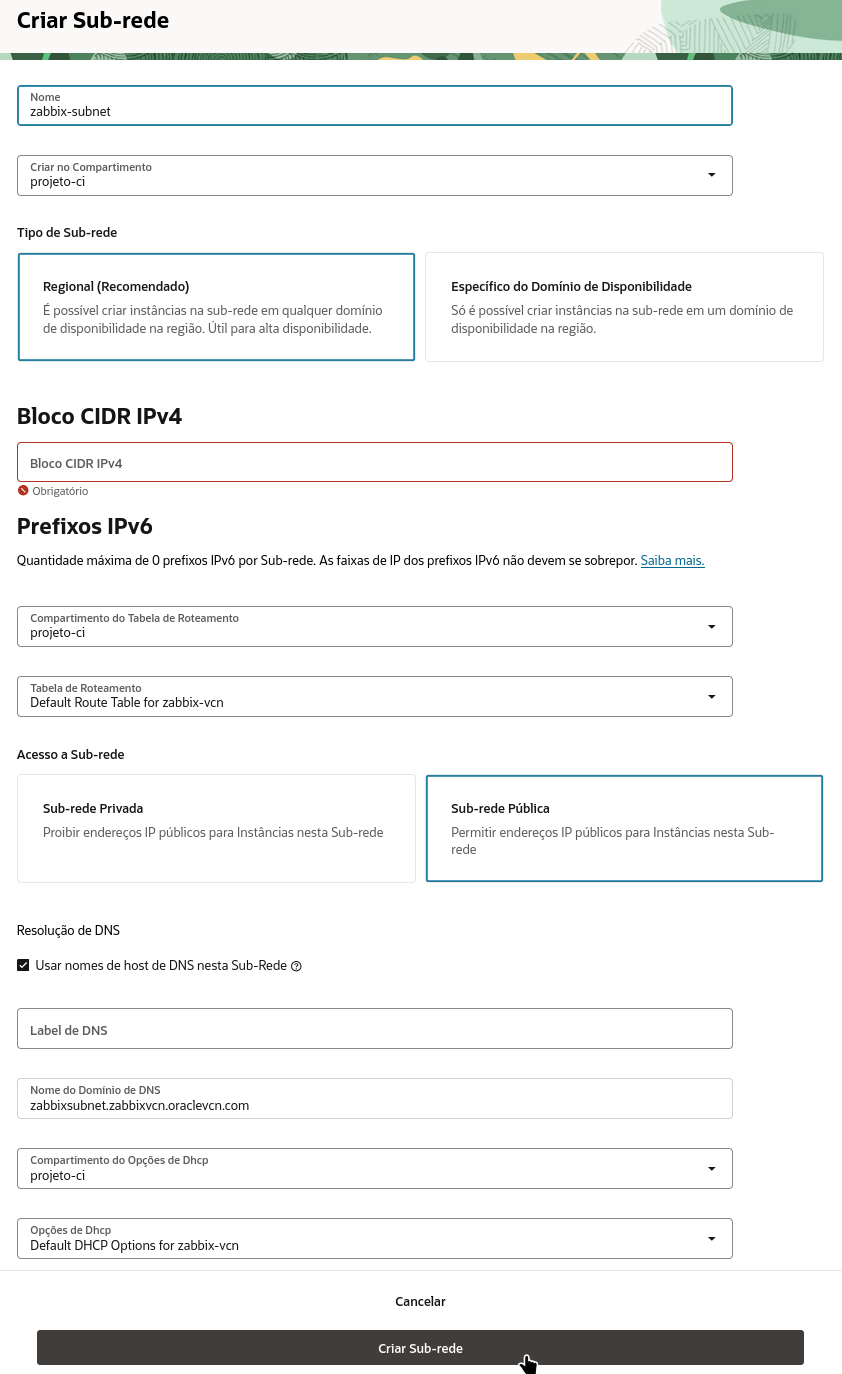
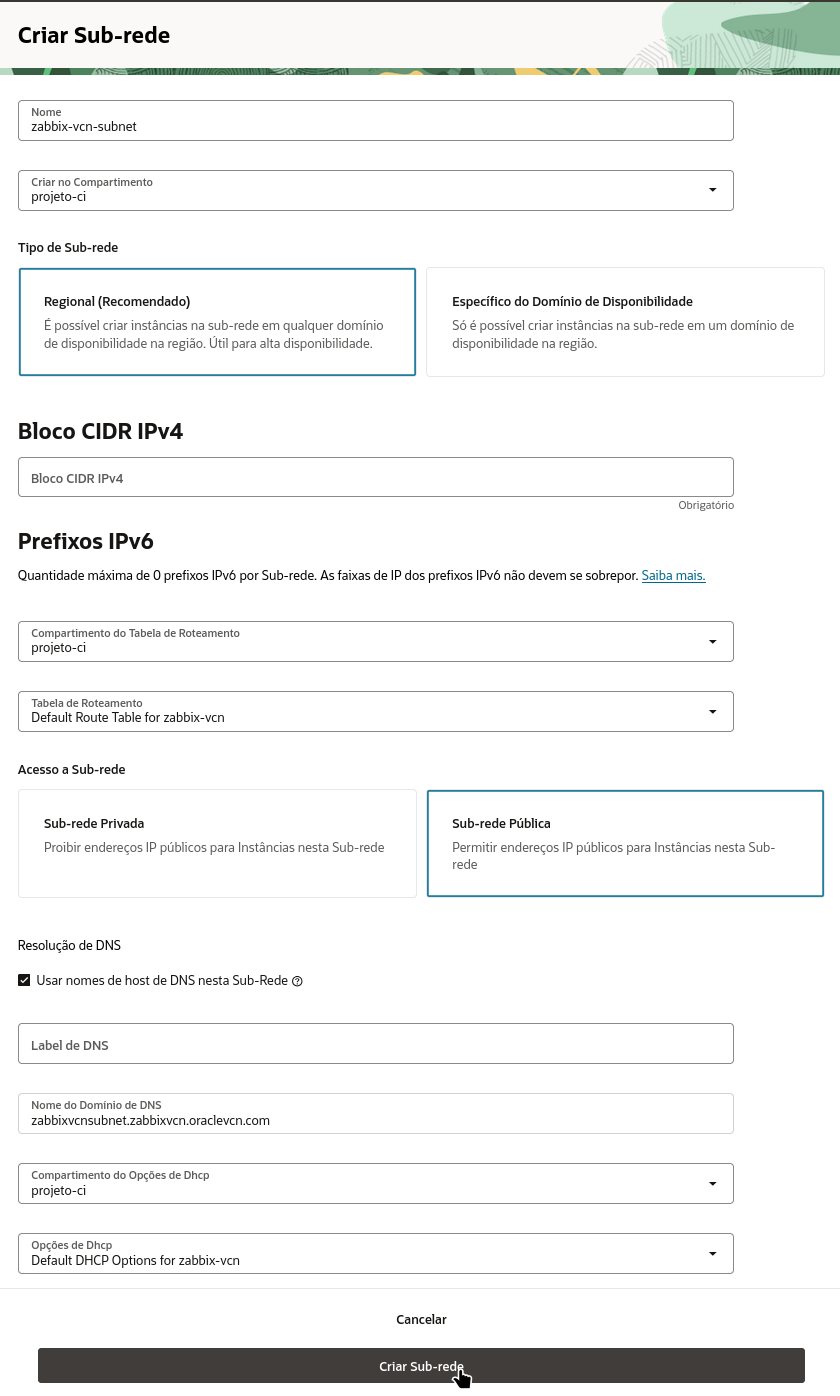
Nova correção ortografica e de pontuação

diff --git a/README.MD b/README.MD
@@ -6,7 +6,9 @@
 
 ## Projeto: Monitoramento de infraestrutura com Zabbix
 
-Este projeto oferece uma solução robusta e escalável para **monitoramento de infraestrutura**, utilizando o poder do Zabbix, um software de código aberto líder em monitoramento de rede e sistemas. Desenvolvido para flexibilidade, ele se adapta facilmente a diversos ambientes, garantindo que você tenha visibilidade total sobre a saúde e performance dos seus sistemas.
+Este projeto demonstra a configuração de um ambiente de monitoramento com Zabbix em uma maquina virtual na Oracle Cloud Infrastructure (OCI). 
+
+O objetivo é fornecer uma solução robusta e automatizada para o monitoramento de infraestrutura, facilitando a adoção de práticas DevOps. Utilizando Docker e Docker Compose, podemos criar um ambiente isolado e reproduzível, garantindo a consistência da configuração e facilitando a implantação em diferentes ambientes. O monitoramento é fundamental para garantir a disponibilidade, desempenho e segurança dos seus servidores, permitindo que você tome decisões informadas sobre a sua infraestrutura.
 
 ---
 
@@ -25,11 +27,23 @@ Este projeto oferece uma solução robusta e escalável para **monitoramento de 
 
 ---
 
+### 📝 Notas do projeto
+
+* Este projeto utiliza **Zabbix com MySQL** para garantir robustez e performance;
+* A estrutura dos serviços está definida no arquivo `docker-compose.yml`;
+* É utilizado volumes para armazenar os dados e configurações do Zabbix;
+* O arquivo `zabbix-mysql.cnf` contém otimizações para o MySQL;
+* O arquivo `data/hosts.yaml` contém exemplos para monitorar Google, CloudFlare e GitHub;
+* Estamos utilizando uma VM Ubuntu na Oracle Cloud Infrastructure (OCI) para implantar o ambiente.
+
+---
+
 ### ⚙ Configurações essenciais
 
 Para colocar o projeto em funcionamento, siga estas etapas de configuração:
 
 1.  **Crie uma conta na Oracle Cloud | Faça login na sua conta Oracle Cloud:**[Oracle Cloud](https://www.oracle.com/br/cloud/).
+
     ![Página inicial da Oracle Cloud Brasil](./img/pagina_inicial_oracle.png)
 
 2.  **Criação da VM Ubuntu na Oracle Cloud Infrastructure (OCI)**
@@ -38,17 +52,28 @@ Para colocar o projeto em funcionamento, siga estas etapas de configuração:
     Uma VCN é sua rede privada na OCI.
 
     * Acesse o console da OCI e navegue para **Rede > Redes virtuais na nuvem**;
-    * Selecione o **Compartimento** (compartimento) desejado.
+    * Selecione o **Compartimento** (compartimento) desejado;
+
     ![Filtro de compartimento](./img/vcn-image1.png)
+
     * Clique em **Criar VCN**;
+
     ![botão de criação](./img/vcn-image2.png)
+
     * **Nome:** Dê um nome significativo (ex: `zabbix-vcn`);
+
     ![Tela com formulário de criação](./img/vcn-image3.png)
+
     * **Blocos CIDR IPv4:** Mantenha o padrão `10.0.0.0/24` ou defina um de sua preferência;
+
     ![Tela com formulário de criação](./img/vcn-image4.png)
+
     * Marque a opção **Usar nomes de host de DNS nesta VCN**;
+
     ![Tela com formulário de criação](./img/vcn-image5.png)
+
     * Clique em **Criar VCN**.
+
     ![botão de criação](./img/vcn-image6.png)
 
     #### 2.2. Criar uma subnet
@@ -56,14 +81,21 @@ Para colocar o projeto em funcionamento, siga estas etapas de configuração:
 
     * Acesse o console da OCI e navegue para **Rede > Redes virtuais na nuvem**;
     * Selecione a VCN criada anteriormente (`zabbix-vcn`);
+
     ![botão de criação](./img/vcn-image7.png)
+
     * Clique em **Sub-redes**;
+
     ![botão de criação](./img/vcn-image8.png)
+
     * Clique em **Criar Sub-rede**;
+
     ![botão de criação](./img/vcn-image9.png)
+
     * **Nome:** Dê um nome significativo (ex: `zabbix-vcn-subnet`);
     * **Blocos CIDR IPv4:** Mantenha o padrão `10.0.0.0/24` ou defina um de sua preferência;
     * Clique em **Criar Sub-rede**.
+
     ![Tela com formulário de criação](./img/vcn-image10.png)
 
     #### 2.3. Gerar Chaves SSH
@@ -83,29 +115,49 @@ Para colocar o projeto em funcionamento, siga estas etapas de configuração:
     #### 2.3. Lançar a Instância de Computação (VM)
 
     * No menu da OCI, vá para **Computação > Instâncias** e clique em **Ciar instância**;
+
     ![Tela com formulário de criação](./img/vm-image1.png)
     ![botão de criação](./img/vm-image2.png)
+
     * **Nome:** Dê um nome à sua VM (ex: `zabbix-vm`);
+
     ![Tela com formulário de criação](./img/vm-image3.png)
+
     * **Imagem e forma:**
         * **Imagem:** Clique em **Alterar Imagem**;
+
         ![botão de alteração](./img/vm-image4.png)
+
         * Selecione **Canonical Ubuntu** e a versão desejada (ex: `24.04 LTS`);
+
         ![Tela com formulário de criação](./img/vm-image5.png)
+
         * **Forma:** Clique em **Alterar Forma** e escolha uma forma adequada (ex: `VM.Standard.E2.2`).
+
         ![botão de alteração](./img/vm-image6.png)
         ![botão de alteração](./img/vm-image7.png)
+
     * **Rede:**
         * **Rede virtual na nuvem:** Selecione a VCN criada anteriormente (`zabbix-vcn`);
+
         ![Tela com formulário de criação](./img/vm-image8.png)
+
         * **Sub-rede:** Escolha a sub-rede pública;
+
         ![Tela com formulário de criação](./img/vm-image9.png)
+
         * **Endereço de IP público:** Marque **Marque: designar endereço IPv4 público automaticamente**;
+
         ![Tela com formulário de criação](./img/vm-image10.png)
+
     * **Adicionar chaves SSH:** Selecione **Colar chave pública** e cole o conteúdo da sua chave pública (`~/.ssh/zabbix_key.pub`);
+
     ![Tela com formulário de criação](./img/vm-image11.png)
+
     * **Armazenamento:** Para o projeto não há necessidade de alterar o armazenamento da VM o padrão `50` GB será suficiente;
+
     ![Tela com formulário de criação](./img/vm-image12.png)
+
     * Clique em **Próximo** e depois em **Criar**;
     * Aguarde a instância ficar com o status "Executando" e anote o **Endereço de IP público**.
 
@@ -113,29 +165,37 @@ Para colocar o projeto em funcionamento, siga estas etapas de configuração:
     Abra as portas necessárias para a comunicação.
 
     * Navegue até os detalhes da sua instância e clique em **Rede**, depois em **Sub-rede** clique no nome da sua sub-rede (`zabbix-vcn-subnet`);
+
     ![Tela com formulário de alteração](./img/fw-image1.png)
     ![Tela com formulário de alteração](./img/fw-image2.png)
+
     * Clique em **Segurança**;
+
     ![Tela com formulário de alteração](./img/fw-image3.png)
 
     * Clique na **Default Security List** e depois em **Regras de segurança**;
+
     ![Tela com formulário de alteração](./img/fw-image4.png)
     ![Tela com formulário de alteração](./img/fw-image5.png)
+
     * Clique em **Adicionar regras de segurança** e adicione as seguintes regras de entrada:
+
     ![botão de adição de regra](./img/fw-image6.png)
-        * **Regra para SSH (Porta 22):**
-            * **CIDR de origem:** `0.0.0.0/0`
-            * **Protocolo IP:** `TCP`
-            * **Intervalo de portas de destino:** `22`
-        * **Regra para Zabbix Agent (Porta 10050):**
-            * **CIDR de origem:** `0.0.0.0/0` (ou o IP do seu Zabbix Server para mais segurança)
-            * **Protocolo IP:** `TCP`
-            * **Intervalo de portas de destino:** `10050`
-        * **Regras para Zabbix Web (Portas 8080/8443):**
-            * **CIDR de origem:** `0.0.0.0/0`
-            * **Protocolo IP:** `TCP`
-            * **Intervalo de portas de destino:** `8080` (HTTP) e/ou `8443` (HTTPS)
-            ![Tela de exemplo de regra](./img/fw-image7.png)
+
+    * **Regra para SSH (Porta 22):**
+        * **CIDR de origem:** `0.0.0.0/0`
+        * **Protocolo IP:** `TCP`
+        * **Intervalo de portas de destino:** `22`
+    * **Regra para Zabbix Agent (Porta 10050):**
+        * **CIDR de origem:** `0.0.0.0/0` (ou o IP do seu Zabbix Server para mais segurança)
+        * **Protocolo IP:** `TCP`
+        * **Intervalo de portas de destino:** `10050`
+    * **Regras para Zabbix Web (Portas 8080/8443):**
+        * **CIDR de origem:** `0.0.0.0/0`
+        * **Protocolo IP:** `TCP`
+        * **Intervalo de portas de destino:** `8080` (HTTP) e/ou `8443` (HTTPS)
+
+        ![Tela de exemplo de regra](./img/fw-image7.png)
 
     #### 2.5. Conectar-se à VM via SSH
 
@@ -154,7 +214,9 @@ Para colocar o projeto em funcionamento, siga estas etapas de configuração:
     #### 3.1. Instalar o Zabbix Agent
 
     * Acesse sua VM via SSH;
+
     ![acesso ssh](./img/ssh-image1.png)
+
     * Baixe e instale o pacote de repositório do Zabbix. Ajuste a URL para a versão compatível com seu Zabbix Server;
         ```bash
         wget https://repo.zabbix.com/zabbix/7.2/release/ubuntu/pool/main/z/zabbix-release/zabbix-release_latest_7.2+ubuntu24.04_all.deb
@@ -171,6 +233,7 @@ Para colocar o projeto em funcionamento, siga estas etapas de configuração:
         sudo systemctl status zabbix-agent
         ```
         ![exemplo de status](./img/status-zabbix-agent.png)
+
     #### 3.2. Configurar o Zabbix Agent
 
     * Edite o arquivo de configuração:
@@ -207,6 +270,7 @@ Para colocar o projeto em funcionamento, siga estas etapas de configuração:
         ```bash
         sudo iptables -L -n
         ```
+
         ![exemplo de tabela de regras](./img/fw-image8.png)
     
     * Instale o `netfilter-persistent` para salvar a regra após reinicializações:
@@ -222,6 +286,7 @@ Para colocar o projeto em funcionamento, siga estas etapas de configuração:
     * Certifique-se de que ambos estejam devidamente instalados no seu sistema operacional.
 
         ![status da instalação do docker e docker compose](./img/docker-status.png)
+
 ---
 
 ## Iniciando o projeto (com Docker)
@@ -284,17 +349,6 @@ No diretório do projeto, utilize os seguintes comandos:
 
 ---
 
-### 📝 Notas do projeto
-
-* Este projeto utiliza **Zabbix com MySQL** para garantir robustez e performance;
-* A estrutura dos serviços está definida no arquivo `docker-compose.yml`;
-* É utilizado volumes para armazenar os dados e configurações do Zabbix;
-* O arquivo `zabbix-mysql.cnf` contém otimizações para o MySQL;
-* O arquivo `data/hosts.yaml` contém exemplos para monitorar Google, CloudFlare e GitHub;
-* Estamos utilizando uma VM Ubuntu na Oracle Cloud Infrastructure (OCI) para simular um ambiente real.
-
----
-
 ### 📊 Configuração inicial de monitoramento
 
 Para um início rápido, importe os hosts de exemplo e crie um dashboard.
@@ -305,30 +359,38 @@ Para um início rápido, importe os hosts de exemplo e crie um dashboard.
 
 * **Para importar:**
 1.  No menu do Zabbix, vá para **Coleção de dados > Servidores**;
-        ![Menu Data Collection](./img/host-image1.png)
+
+    ![Menu Data Collection](./img/host-image1.png)
 
 2.  Clique no botão **Importar** no canto superior direito;
-        ![Menu Data Collection](./img/host-image2.png)
+
+    ![Menu Data Collection](./img/host-image2.png)
 
 3.  Clique em procurar e seleccione o arquivo `data/exemplo-hosts.yaml`;
 
 4.  Clique em **Importar**.
-        ![Menu Data Collection](./img/host-image3.png)
+
+    ![Menu Data Collection](./img/host-image3.png)
 
 #### 2 Criar um host no Zabbix frontend
 **Obs:** No exemplo criaremos um host para monitorar uma vm Unbuntu no oracle cloud.
 
 * Acesse sua interface web do Zabbix;
 * Vá para **Coleção de dados > Servidores** e clique em **Criar host**;
+
     ![botão de criação](./img/zbx-image1.png)
     ![botão de criação](./img/zbx-image2.png)
+
 * Preencha os campos:
     * **Nome do host:** Digite o nome **exato** configurado no `zabbix_agentd.conf`.
     * **Grupos de hosts:** Associe a um grupo (ex: `Linux servers`).
     * **Interfaces:** Adicione uma interface do tipo **Zabbix agent**, preenchendo o **IP address** público da VM e a porta `10050`.
 * Na aba **Templates**, vincule um modelo apropriado, como `Linux by Zabbix agent`.
+
 ![botão de criação](./img/zbx-image3.png)
+
 * Clique em **Adicionar** para salvar.
+
 ![botão de criação](./img/zbx-image4.png)
 
 #### 2.1. Verificar a Coleta de Dados
@@ -336,7 +398,9 @@ Para um início rápido, importe os hosts de exemplo e crie um dashboard.
 * Aguarde alguns minutos;
 * Vá para **Monitoração > Dados recentes**;
 * Filtre pelo host recém-criado para ver os dados sendo coletados. O ícone de disponibilidade do host em **Monitoração > Servidores** deve ficar verde.
+
 ![botão de criação](./img/zbx-image5.png)
+
 ---
 
 #### 3. Criar um dashboard básico
@@ -344,14 +408,19 @@ Para um início rápido, importe os hosts de exemplo e crie um dashboard.
 1.  No menu, clique em **Painéis**;
     
 2.  Clique em **Criar novo**;
+
     ![Menu Dashboards](./img/dash-image1.png)
+
 3.  Dê um nome ao dashboard e clique em **Aplicar**;
+
     ![Criação do Dashboard](./img/dash-image2.png)
+
 4.  Clique em uma área vazia para adicionar um widget (ex: um `Gráfico`) para visualizar os dados dos seus hosts;
 5.  Clique em **Adicionar** e preencha:
-    * **Nome:** Nome do widget
-    * **Host patterns:** Hosts a serem monitorados
-    * **Items patterns:** Items a serem monitorados
-    * **Aspectos do grafico:** Opções de estilo do gráfico (cor, largura, tipo, posição, etc.)
+    * **Nome:** Nome do widget;
+    * **Host patterns:** Hosts a serem monitorados;
+    * **Items patterns:** Items a serem monitorados;
+    * **Aspectos do grafico:** Opções de estilo do gráfico (cor, largura, tipo, posição, etc.).
+
     ![Criação do Dashboard](./img/dash-image3.png)
     ![Criação do Dashboard](./img/dash-image4.png)
